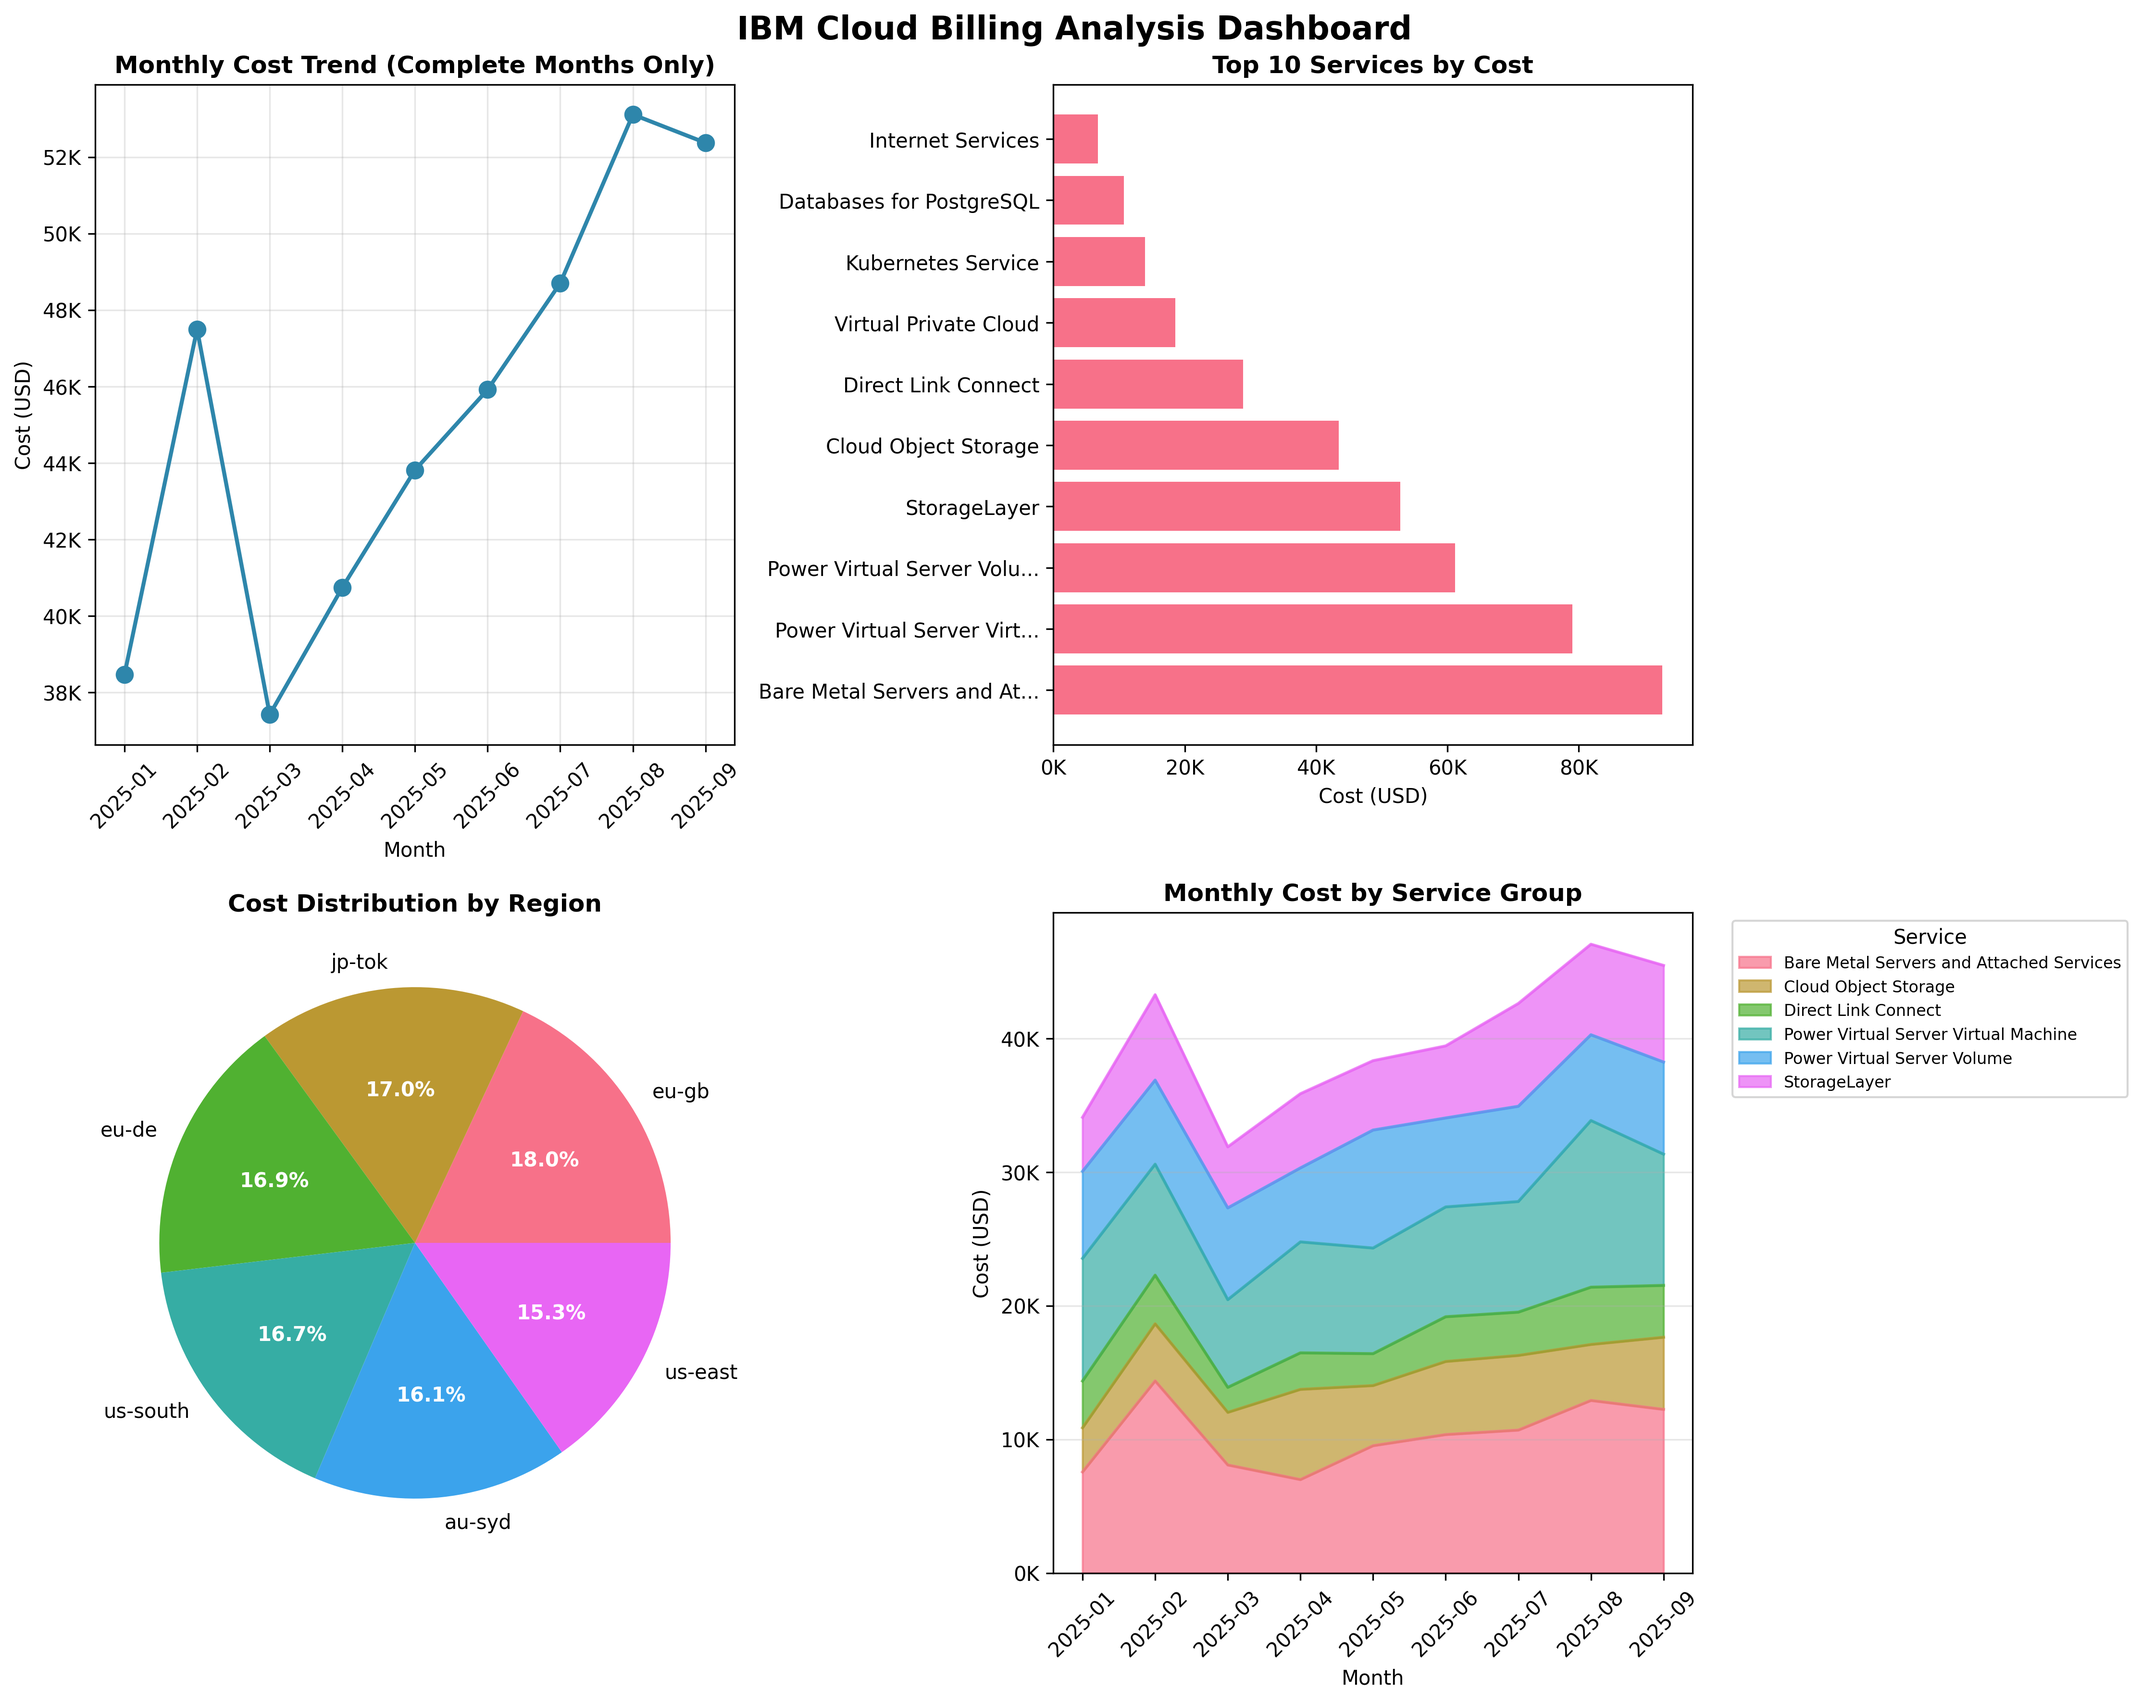
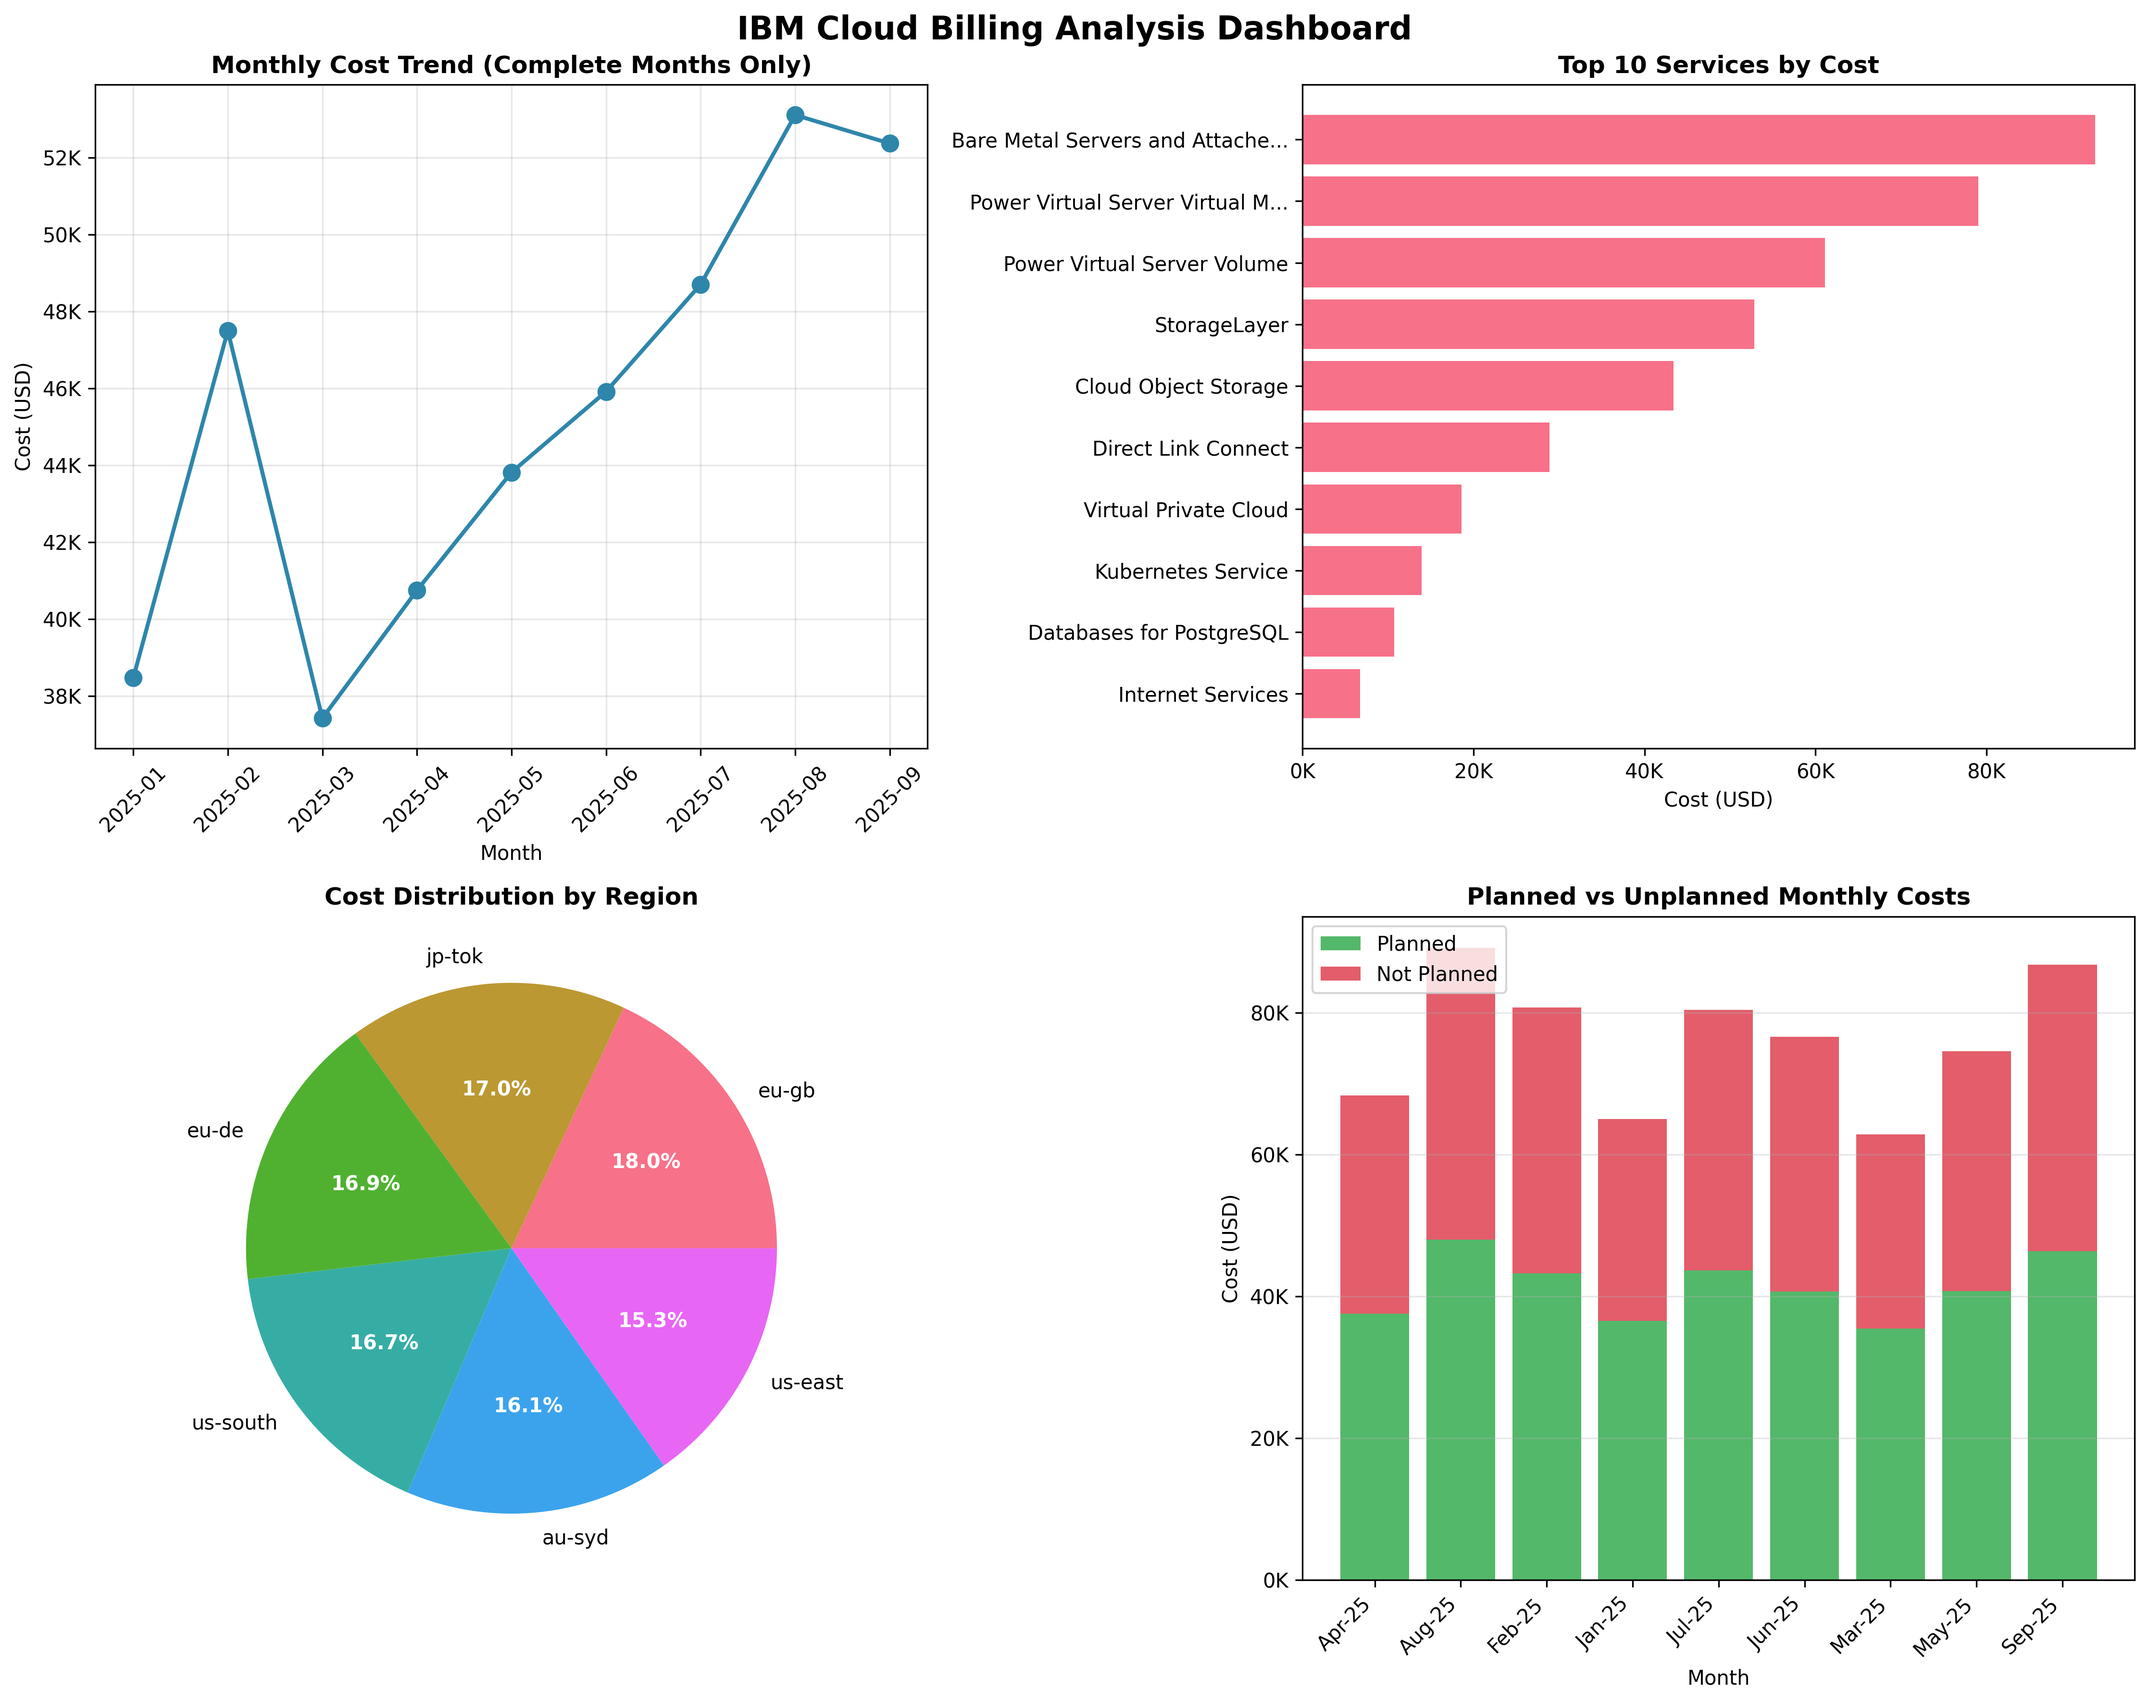
sample image update

diff --git a/src/visualize_billing.py b/src/visualize_billing.py
@@ -8,12 +8,87 @@ Creates charts and graphs for IBM billing data analysis.
 import matplotlib.pyplot as plt
 import seaborn as sns
 import pandas as pd
+import os
+import sys
 try:
     from .ibm_billing_parser import IBMBillingParser
+    from .generate_planning_excel import YAMLPlanningParser, FilterExecutor
 except ImportError:
     from ibm_billing_parser import IBMBillingParser
+    from generate_planning_excel import YAMLPlanningParser, FilterExecutor
 
-def create_visualizations():
+def load_planning_data(yaml_file='config/filters.yaml'):
+    """
+    Load planned vs unplanned data from YAML configuration.
+    Returns DataFrame with columns: Billing Month, Planned Cost, Not Planned Cost
+    """
+    if yaml_file is None or not os.path.exists(yaml_file):
+        return None
+    
+    try:
+        # Parse YAML configuration
+        parser = YAMLPlanningParser(yaml_file)
+        planning_data = parser.parse()
+        
+        # Execute filters for each group
+        executor = FilterExecutor("data/billing")
+        executor.load_billing_data()
+        
+        # Calculate costs for each group
+        for group in planning_data.groups:
+            monthly_costs = executor.execute_group_filter(group)
+            group.costs = monthly_costs
+            
+            # Calculate planned vs not_planned based on budget allocations
+            for month in planning_data.all_months:
+                actual_cost = group.costs.get(month, 0.0)
+                budget = group.budget_allocations.get(month, 0.0)
+                
+                if budget == 0:
+                    # No budget = fully not_planned
+                    group.planned_costs[month] = 0.0
+                    group.not_planned_costs[month] = actual_cost
+                elif budget == float('inf'):
+                    # Unlimited budget (legacy "planned") = fully planned
+                    group.planned_costs[month] = actual_cost
+                    group.not_planned_costs[month] = 0.0
+                elif actual_cost <= budget:
+                    # Within budget = fully planned
+                    group.planned_costs[month] = actual_cost
+                    group.not_planned_costs[month] = 0.0
+                else:
+                    # Over budget = budget portion planned, excess not_planned
+                    group.planned_costs[month] = budget
+                    group.not_planned_costs[month] = actual_cost - budget
+        
+        # Aggregate across all groups by month
+        monthly_planning = {}
+        for group in planning_data.groups:
+            for month in planning_data.all_months:
+                if month not in monthly_planning:
+                    monthly_planning[month] = {'planned': 0, 'not_planned': 0}
+                monthly_planning[month]['planned'] += group.planned_costs.get(month, 0)
+                monthly_planning[month]['not_planned'] += group.not_planned_costs.get(month, 0)
+        
+        # Convert to DataFrame - only include months with actual data (non-zero costs)
+        df_data = []
+        for month in sorted(monthly_planning.keys()):
+            total_cost = monthly_planning[month]['planned'] + monthly_planning[month]['not_planned']
+            if total_cost > 0:  # Only include months with actual billing data
+                df_data.append({
+                    'Billing Month': month,
+                    'Planned': monthly_planning[month]['planned'],
+                    'Not Planned': monthly_planning[month]['not_planned']
+                })
+        
+        return pd.DataFrame(df_data) if df_data else None
+        
+    except Exception as e:
+        print(f"Warning: Could not load planning data: {e}")
+        return None
+
+
+def create_visualizations(yaml_config='config/filters.yaml'):
     """Create various visualizations for billing data."""
     
     # Load data
@@ -79,25 +154,42 @@ def create_visualizations():
         autotext.set_color('white')
         autotext.set_fontweight('bold')
     
-    # 4. Monthly cost breakdown by top service groups
-    top_6_services = data.groupby('Service Name')['Cost'].sum().sort_values(ascending=False).head(6).index
-    monthly_service_pivot = data[data['Service Name'].isin(top_6_services)].pivot_table(
-        index='Billing Month',
-        columns='Service Name',
-        values='Cost',
-        aggfunc='sum',
-        fill_value=0
-    )
+    # 4. Planned vs Not Planned costs (if YAML config available), else service breakdown
+    planning_data = load_planning_data(yaml_config)
     
-    # Create stacked area chart
-    monthly_service_pivot.plot(kind='area', stacked=True, ax=ax4, alpha=0.7)
-    ax4.set_title('Monthly Cost by Service Group', fontweight='bold')
-    ax4.set_xlabel('Month')
-    ax4.set_ylabel('Cost (USD)')
-    ax4.yaxis.set_major_formatter(plt.FuncFormatter(lambda x, p: f'{x/1000:.0f}K'))
-    ax4.tick_params(axis='x', rotation=45)
-    ax4.legend(title='Service', bbox_to_anchor=(1.05, 1), loc='upper left', fontsize=8)
-    ax4.grid(True, alpha=0.3, axis='y')
+    if planning_data is not None and not planning_data.empty:
+        # Show planned vs not planned stacked bar chart
+        planning_pivot = planning_data.set_index('Billing Month')
+        
+        planning_pivot.plot(kind='bar', stacked=True, ax=ax4, 
+                           color=['#28a745', '#dc3545'], alpha=0.8)
+        ax4.set_title('Planned vs Not Planned Costs', fontweight='bold')
+        ax4.set_xlabel('Month')
+        ax4.set_ylabel('Cost (USD)')
+        ax4.yaxis.set_major_formatter(plt.FuncFormatter(lambda x, p: f'{x/1000:.0f}K'))
+        ax4.tick_params(axis='x', rotation=45)
+        ax4.legend(title='Status', loc='upper left')
+        ax4.grid(True, alpha=0.3, axis='y')
+    else:
+        # Fallback to service breakdown if no planning data
+        top_6_services = data.groupby('Service Name')['Cost'].sum().sort_values(ascending=False).head(6).index
+        monthly_service_pivot = data[data['Service Name'].isin(top_6_services)].pivot_table(
+            index='Billing Month',
+            columns='Service Name',
+            values='Cost',
+            aggfunc='sum',
+            fill_value=0
+        )
+        
+        # Create stacked area chart
+        monthly_service_pivot.plot(kind='area', stacked=True, ax=ax4, alpha=0.7)
+        ax4.set_title('Monthly Cost by Service Group', fontweight='bold')
+        ax4.set_xlabel('Month')
+        ax4.set_ylabel('Cost (USD)')
+        ax4.yaxis.set_major_formatter(plt.FuncFormatter(lambda x, p: f'{x/1000:.0f}K'))
+        ax4.tick_params(axis='x', rotation=45)
+        ax4.legend(title='Service', bbox_to_anchor=(1.05, 1), loc='upper left', fontsize=8)
+        ax4.grid(True, alpha=0.3, axis='y')
     
     # Adjust layout
     plt.tight_layout()
@@ -167,8 +259,14 @@ def monthly_comparison():
 
 def main():
     """Main function."""
+    import argparse
+    
+    parser = argparse.ArgumentParser(description='Generate IBM Cloud billing visualizations.')
+    parser.add_argument('--yaml', help='Path to YAML config file for budget planning (optional)')
+    args = parser.parse_args()
+    
     print("Creating IBM Cloud Billing Visualizations...")
-    create_visualizations()
+    create_visualizations(yaml_config=args.yaml)
     print("\nCreating monthly comparison...")
     monthly_comparison()
     print("\n✅ All visualizations complete!")
